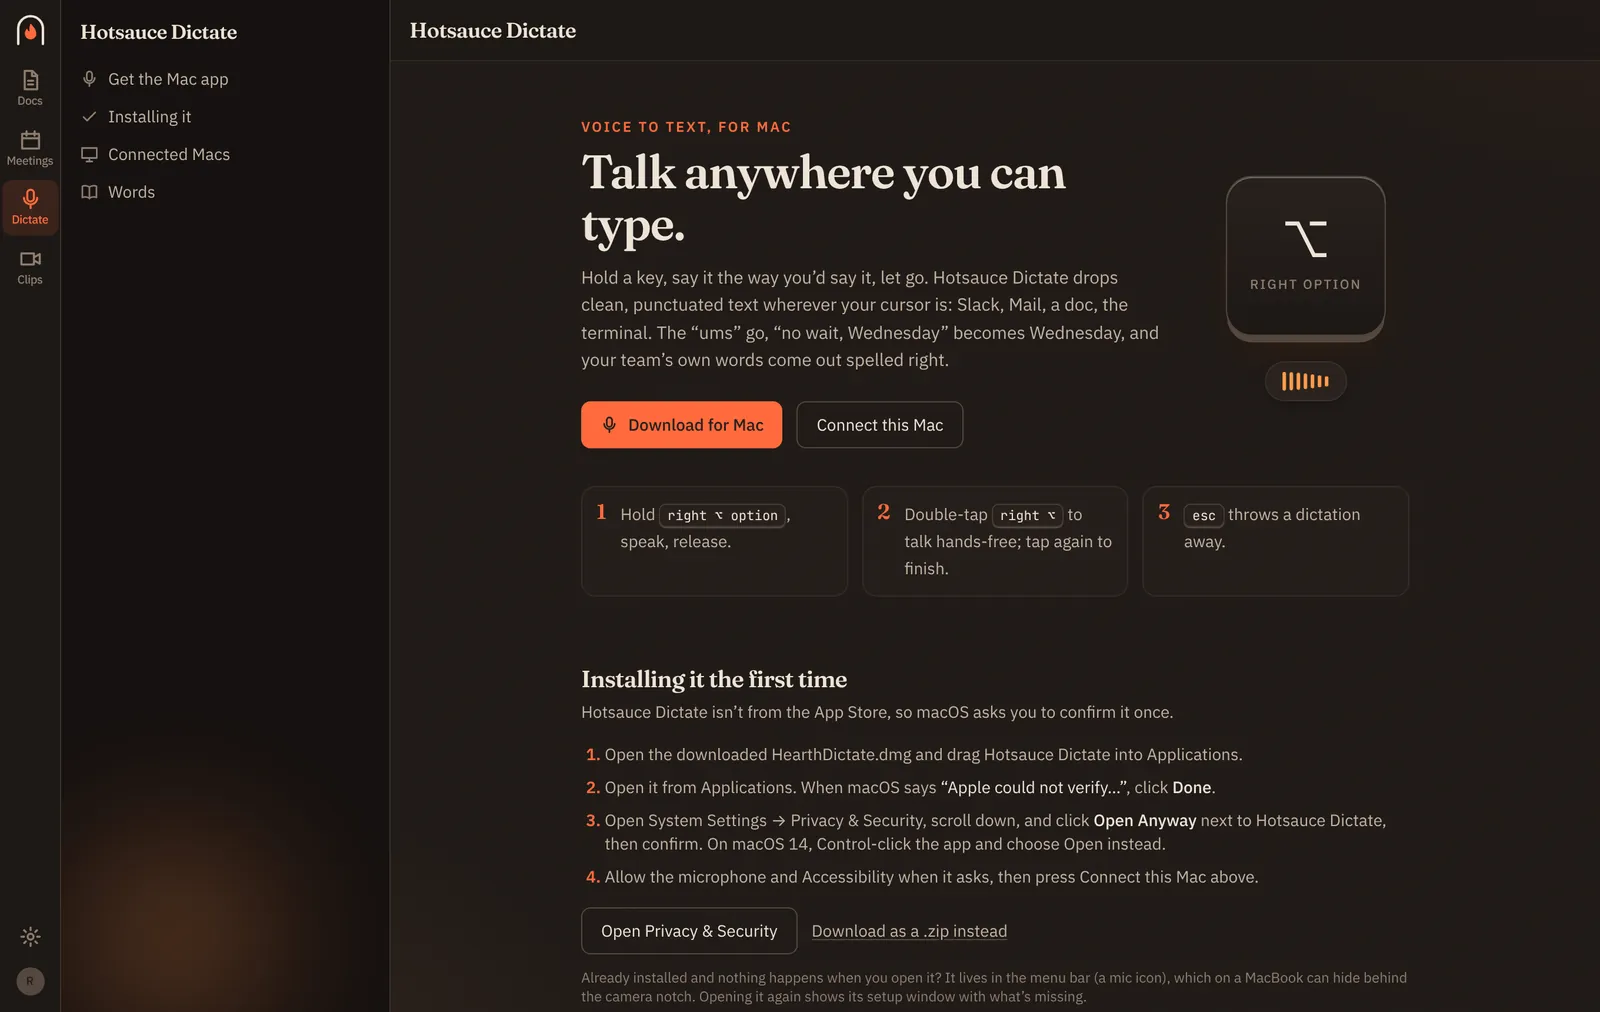
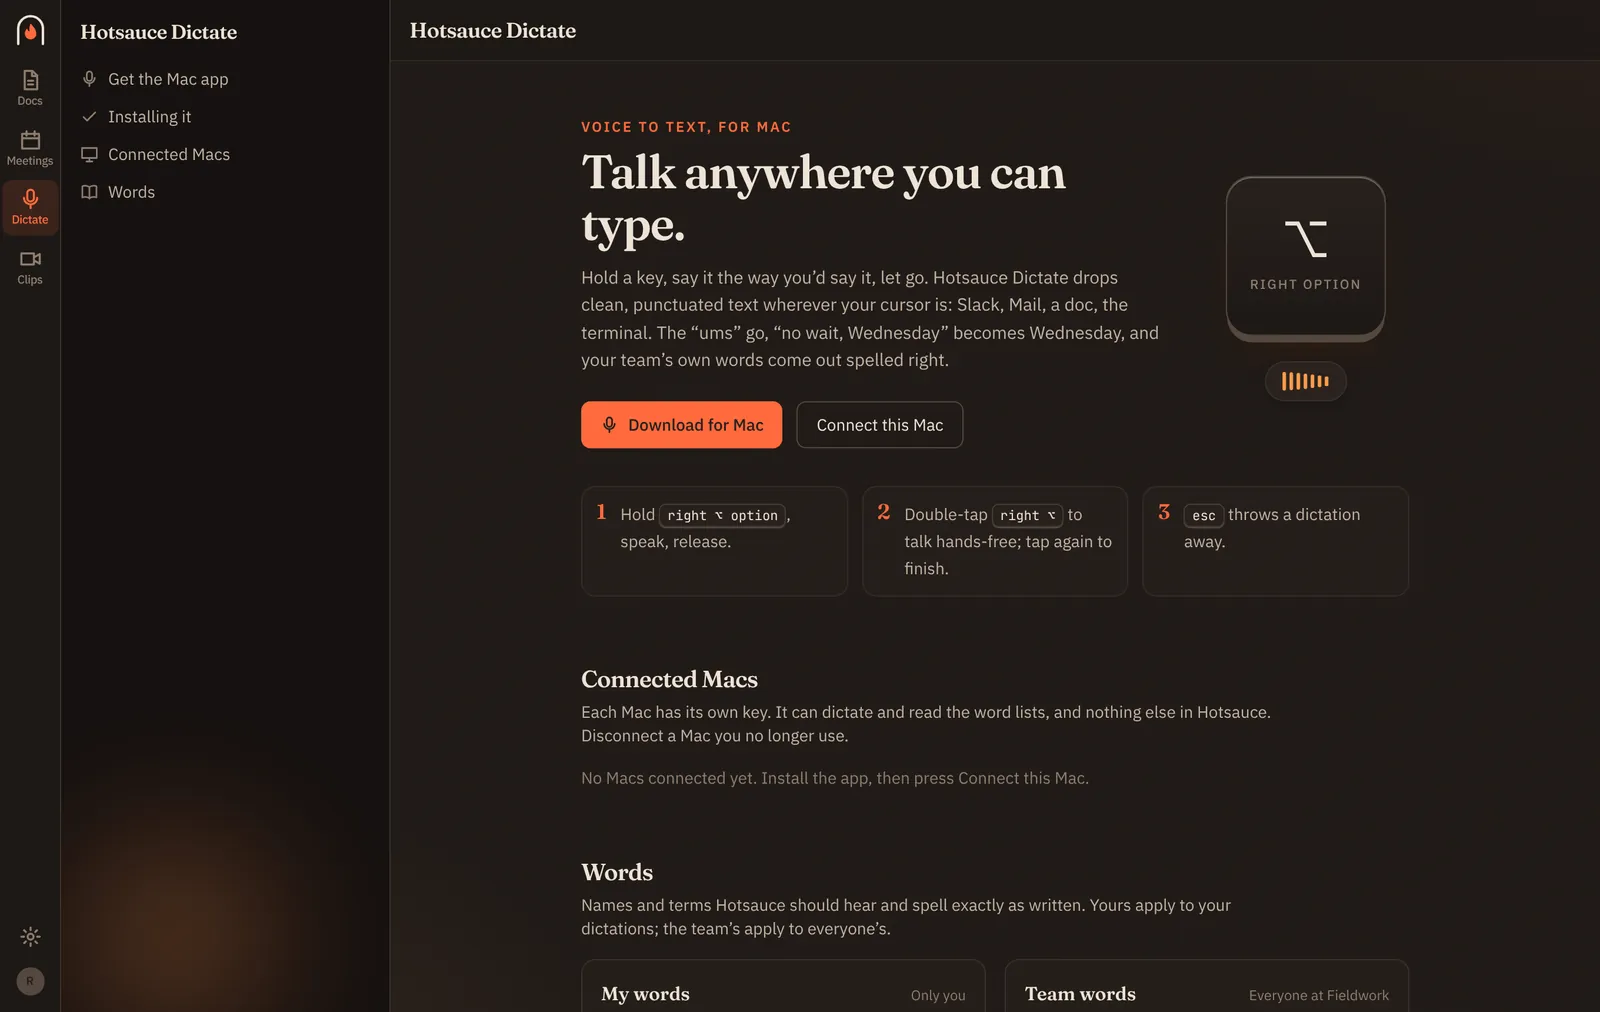
Website: fixes from review
Copy matches what the public repo does today: Fly needs flyctl and pnpm,
Docker needs only Docker, Clips needs an R2 bucket, the Mac app is built from
source, git clone/push needs GitHub storage, which key turns on what.
New screenshots without the old download name. Drag the brand slider
anywhere (iOS), Ctrl+C fallback off-Mac, contrast on the price card,
Self-host link on phones. Worker: www goes to https, HSTS, frame-deny,
image caching kept on 304.

Claude-Session: https://claude.ai/code/session_01BSKraTNMsfF4Fxt6tYWBig

Changed region(s): [[0.3438, 0.6433, 0.875, 1.0]]

diff --git a/site/public/index.html b/site/public/index.html
@@ -111,6 +111,8 @@ h2{font:600 clamp(32px,4.6vw,48px)/1.08 var(--serif);margin:0 0 14px;letter-spac
 .app li{display:flex;gap:9px;align-items:baseline}
 .app li::before{content:"";width:6px;height:6px;border-radius:50%;background:var(--ember);flex:none;transform:translateY(-2px)}
 .extras{display:grid;gap:16px;grid-template-columns:repeat(3,1fr);margin-top:16px}
+.app .note{margin:14px 0 0;font-size:14px}
+:not(pre)>code{font:.88em var(--mono);background:var(--paper-2);border:1px solid var(--line);padding:1px 6px;border-radius:6px}
 .extra{border:1px dashed var(--line);border-radius:var(--radius);padding:20px 22px}
 .extra h4{margin:0 0 4px;font-size:16px}
 .extra p{margin:0;color:var(--muted);font-size:15px}
@@ -151,7 +153,7 @@ h2{font:600 clamp(32px,4.6vw,48px)/1.08 var(--serif);margin:0 0 14px;letter-spac
 .price h3{margin:0;font-size:15px;color:var(--muted);font-weight:500}
 .price p{margin:0;color:var(--muted);font-size:15.5px}
 .price.hot{background:var(--ember);border-color:var(--ember);color:var(--ember-ink)}
-.price.hot h3,.price.hot p,.price.hot small{color:inherit;opacity:.88}
+.price.hot h3,.price.hot p,.price.hot small{color:inherit}
 
 /* install */
 .install{background:var(--card);border:1px solid var(--line);border-radius:22px;padding:clamp(22px,4vw,44px);display:grid;grid-template-columns:minmax(0,5fr) minmax(0,6fr);gap:44px}
@@ -199,7 +201,9 @@ footer.foot .brand svg{width:24px;height:24px}
   .apps{grid-template-columns:1fr}
 }
 @media (max-width:640px){
-  nav.links a:not(.gh){display:none}
+  nav.links a:not(.gh):not(.m){display:none}
+  nav.links{gap:14px}
+  .caption{min-height:5em}
   .hero{padding-top:28px}
   section{padding-top:72px}
   .chrome span{font-size:11.5px}
@@ -224,7 +228,7 @@ footer.foot .brand svg{width:24px;height:24px}
     <a href="#apps">Apps</a>
     <a href="#brand">Your brand</a>
     <a href="#cost">Cost</a>
-    <a href="#run">Self-host</a>
+    <a class="m" href="#run">Self-host</a>
     <a href="#faq">FAQ</a>
     <a class="gh" href="https://github.com/hotsauce-suite/hotsauce"><svg viewBox="0 0 16 16" fill="currentColor" aria-hidden="true"><path d="M8 0C3.58 0 0 3.58 0 8c0 3.54 2.29 6.53 5.47 7.59.4.07.55-.17.55-.38 0-.19-.01-.82-.01-1.49-2.01.37-2.53-.49-2.69-.94-.09-.23-.48-.94-.82-1.13-.28-.15-.68-.52-.01-.53.63-.01 1.08.58 1.23.82.72 1.21 1.87.87 2.33.66.07-.52.28-.87.51-1.07-1.78-.2-3.64-.89-3.64-3.95 0-.87.31-1.59.82-2.15-.08-.2-.36-1.02.08-2.12 0 0 .67-.21 2.2.82.64-.18 1.32-.27 2-.27.68 0 1.36.09 2 .27 1.53-1.04 2.2-.82 2.2-.82.44 1.1.16 1.92.08 2.12.51.56.82 1.27.82 2.15 0 3.07-1.87 3.75-3.65 3.95.29.25.54.73.54 1.48 0 1.07-.01 1.93-.01 2.2 0 .21.15.46.55.38A8.013 8.013 0 0 0 16 8c0-4.42-3.58-8-8-8z"/></svg>GitHub</a>
   </nav>
@@ -236,7 +240,7 @@ footer.foot .brand svg{width:24px;height:24px}
   <h1>The open <em>sauce</em> office suite.</h1>
   <p class="lede">Docs, AI meeting notes, Mac dictation and screen recordings for your team. It runs on one small server you own, and every doc and note is a Markdown file in git.</p>
   <div class="ctas">
-    <a class="btn primary" href="#run">Set it up in 10 minutes</a>
+    <a class="btn primary" href="#run">Set it up for your team</a>
     <a class="btn" href="https://github.com/hotsauce-suite/hotsauce">View the code</a>
   </div>
   <p class="fine">Free forever. About $6 a month to host. Bring your own AI keys.</p>
@@ -263,7 +267,7 @@ footer.foot .brand svg{width:24px;height:24px}
 <section id="apps">
   <p class="kicker">What's in the box</p>
   <h2>Four apps your team uses every day.</h2>
-  <p class="sub">One sign-in, one search across everything, one brand. Each app does the job well enough that you can cancel the subscription it replaces.</p>
+  <p class="sub">One sign-in, one search across docs and meetings, one brand. Each app does the job well enough that you can cancel the subscription it replaces.</p>
   <div class="apps">
     <article class="app">
       <header><div class="ico"><svg aria-hidden="true" viewBox="0 0 24 24" fill="none" stroke="currentColor" stroke-width="2" stroke-linecap="round" stroke-linejoin="round"><path d="M14 3H6a2 2 0 0 0-2 2v14a2 2 0 0 0 2 2h12a2 2 0 0 0 2-2V9z"/><path d="M14 3v6h6M8 13h8M8 17h5"/></svg></div><h3>Docs</h3><span class="instead">instead of a wiki or<br>shared drive</span></header>
@@ -278,12 +282,13 @@ footer.foot .brand svg{width:24px;height:24px}
     <article class="app">
       <header><div class="ico"><svg aria-hidden="true" viewBox="0 0 24 24" fill="none" stroke="currentColor" stroke-width="2" stroke-linecap="round" stroke-linejoin="round"><rect x="9" y="3" width="6" height="11" rx="3"/><path d="M5 11a7 7 0 0 0 14 0M12 18v3"/></svg></div><h3>Dictate</h3><span class="instead">instead of a paid<br>dictation app</span></header>
       <p>Hold a key on your Mac, talk, let go. Clean, punctuated text lands wherever your cursor is.</p>
-      <ul><li>Works in any app: Slack, Mail, docs, the terminal</li><li>Drops the "ums" and fixes "no wait, Wednesday"</li><li>A shared team word list keeps names spelled right</li><li>Native Mac app, downloadable from your own server</li></ul>
+      <ul><li>Works in any app: Slack, Mail, docs, the terminal</li><li>Drops the "ums" and fixes "no wait, Wednesday"</li><li>A shared team word list keeps names spelled right</li><li>A native Mac app, built from the source in the repo</li></ul>
     </article>
     <article class="app">
       <header><div class="ico"><svg aria-hidden="true" viewBox="0 0 24 24" fill="none" stroke="currentColor" stroke-width="2" stroke-linecap="round" stroke-linejoin="round"><rect x="3" y="4" width="18" height="13" rx="2"/><circle cx="17" cy="14" r="3"/><path d="M8 21h8"/></svg></div><h3>Clips</h3><span class="instead">instead of a screen<br>recording service</span></header>
       <p>Record your screen with a camera bubble and share a link instead of booking a meeting.</p>
-      <ul><li>Screen, window or tab, with your camera in the corner</li><li>Automatic transcript for every clip</li><li>Playback speed control for viewers</li><li>A shared library for the whole team</li></ul>
+      <ul><li>Your whole screen with a camera bubble, or just a window or tab</li><li>Automatic transcript for every clip</li><li>Playback speed control for viewers</li><li>A shared library for the whole team</li></ul>
+      <p class="note">Videos are kept in your own Cloudflare R2 bucket, which you add in the setup wizard.</p>
     </article>
   </div>
   <div class="extras">
@@ -312,7 +317,7 @@ footer.foot .brand svg{width:24px;height:24px}
         <picture class="after-wrap"><source media="(prefers-color-scheme: dark)" srcset="/img/branded-docs-dark.webp"><img class="after" src="/img/branded-docs-light.webp" width="1600" height="1012" alt="" loading="lazy"></picture>
         <span class="tag l">Hotsauce</span><span class="tag r">Your brand</span>
         <span class="bar"></span>
-        <input type="range" min="0" max="100" value="50" aria-label="Drag to compare the default look with a custom brand">
+        <input type="range" min="0" max="100" value="50" aria-label="Compare the default look with a custom brand" aria-valuetext="Half default, half custom brand">
         <span class="knob" aria-hidden="true"><svg aria-hidden="true" viewBox="0 0 24 24" fill="none" stroke="currentColor" stroke-width="2.2" stroke-linecap="round" stroke-linejoin="round"><path d="m9 6-6 6 6 6M15 6l6 6-6 6"/></svg></span>
       </div>
       <p class="caption" style="text-align:center;min-height:0">Same app, same doc. Drag to see a team's own logo, colors and fonts.</p>
@@ -327,9 +332,9 @@ footer.foot .brand svg{width:24px;height:24px}
       <h2>Your files are just files.</h2>
       <p class="sub">Most office software keeps your work in a database only it can read. Hotsauce keeps it in a git repository, as Markdown anyone can open.</p>
       <div class="points">
-        <div><h3>Leave whenever you like</h3><p>Your export is <code>git clone</code>. Every doc, meeting note and transcript comes with its full history.</p></div>
-        <div><h3>Use the tools you already have</h3><p>Clone the repository and open it in Obsidian, VS Code or any editor. Changes you push show up in Hotsauce.</p></div>
-        <div><h3>Keep it where you choose</h3><p>On the server's own disk, or pushed to your GitHub organization. The database is only an index you can delete and rebuild.</p></div>
+        <div><h3>Leave whenever you like</h3><p>Every doc, meeting note and transcript is a Markdown file with its full git history. Keep them in your GitHub organization and your export is <code>git clone</code>.</p></div>
+        <div><h3>Use the tools you already have</h3><p>With GitHub storage, open the repository in Obsidian, VS Code or any editor. Changes you push show up in Hotsauce.</p></div>
+        <div><h3>Keep it where you choose</h3><p>On the server's own disk, or in your GitHub organization. For docs and meetings, the database is only an index you can delete and rebuild.</p></div>
       </div>
     </div>
     <div class="code" role="img" aria-label="A meeting note as a Markdown file with YAML frontmatter: title, date, attendees and template, followed by the summary.">
@@ -342,6 +347,7 @@ footer.foot .brand svg{width:24px;height:24px}
 <span class="k">attendees</span>:
   - <span class="s">Rosa &lt;rosa@fieldwork.example&gt;</span>
   - <span class="s">Sam Okafor &lt;sam@northside.example&gt;</span>
+  - <span class="s">Priya Nair &lt;priya@northside.example&gt;</span>
 <span class="k">template</span>: customer-call
 <span class="k">transcript</span>: <span class="s">2026-11-10-northside-water-kickoff.transcript.md</span>
 <span class="d">---</span>
@@ -378,23 +384,24 @@ before the spring sampling season.
   <div class="install">
     <div>
       <p class="kicker">Self-host</p>
-      <h2>Running in about ten minutes.</h2>
+      <h2>Running this afternoon.</h2>
       <p class="sub" style="font-size:17px">You run three commands. A setup wizard in your browser does the rest, and nobody edits a config file.</p>
       <p style="margin:0 0 8px;font-weight:600;font-size:15px">The wizard covers</p>
       <ul class="wizard"><li>Your organization</li><li>Brand</li><li>Google sign-in</li><li>AI keys</li><li>Files and audio</li><li>Review and launch</li></ul>
-      <div class="needs"><b>You'll need</b> a free Fly.io account (or any Docker host), a free Clerk account for Google sign-in, and optionally Anthropic and Deepgram keys for the AI features. Docs works fully without them.</div>
+      <div class="needs"><b>You'll need</b> a Fly.io account (or any server with Docker), a free Clerk account for Google sign-in, and optionally Anthropic and Deepgram keys for the AI features and a Cloudflare R2 bucket for Clips. Docs works fully without them.</div>
     </div>
     <ol class="steps">
-      <li><div><h3>Get the code</h3><p>Needs Node 22, git and pnpm (<code>corepack enable</code>).</p>
+      <li><div><h3>Get the code</h3>
         <div class="cmd"><pre>git clone https://github.com/hotsauce-suite/hotsauce
-cd hotsauce &amp;&amp; pnpm install</pre><button class="copy" type="button">Copy</button></div></div></li>
+cd hotsauce</pre><button class="copy" type="button" aria-live="polite">Copy</button></div></div></li>
       <li><div><h3>Launch your server</h3>
         <div class="seg" role="tablist" aria-label="Where to host">
           <button type="button" role="tab" aria-selected="true" data-host="fly" id="h-fly" aria-controls="host-cmd">Fly.io</button>
           <button type="button" role="tab" aria-selected="false" tabindex="-1" data-host="docker" id="h-docker" aria-controls="host-cmd">Docker</button>
         </div>
-        <p id="host-note">Creates the app and its disk, generates every secret, deploys, and prints your setup link.</p>
-        <div class="cmd" id="host-cmd" role="tabpanel" aria-labelledby="h-fly"><pre>scripts/deploy-fly.sh acme-office</pre><button class="copy" type="button">Copy</button></div></div></li>
+        <p id="host-note">Needs Node 22, pnpm (<code>corepack enable</code>) and flyctl, signed in with <code>fly auth login</code>. The script creates the app and its disk, generates the server's keys, deploys, and prints your setup link.</p>
+        <div class="cmd" id="host-cmd" role="tabpanel" aria-labelledby="h-fly"><pre>pnpm install
+scripts/deploy-fly.sh acme-office</pre><button class="copy" type="button" aria-live="polite">Copy</button></div></div></li>
       <li><div><h3>Open the setup link</h3><p>Name your workspace, add your brand, connect sign-in and keys, and launch. Then send your team the link. Full guide in <a href="https://github.com/hotsauce-suite/hotsauce/blob/main/docs/self-host.md">docs/self-host.md</a>.</p></div></li>
     </ol>
   </div>
@@ -404,13 +411,13 @@ cd hotsauce &amp;&amp; pnpm install</pre><button class="copy" type="button">Copy
   <div class="center"><p class="kicker">Questions</p><h2>Good to know.</h2></div>
   <div class="faq">
     <details><summary>Who is Hotsauce for?</summary><p>Teams of roughly 5 to 50 people who want their documents and meeting notes on infrastructure they control, without paying per seat. You need one person who is comfortable running three commands. After that, everything is set up and managed in the browser.</p></details>
-    <details><summary>Is it really free?</summary><p>Yes. The code is free under AGPL-3.0 and every feature is included. You pay your own hosting (about $6 a month on Fly.io) and, if you turn on the AI features, your own Anthropic and Deepgram usage.</p></details>
+    <details><summary>Is it really free?</summary><p>Yes. The code is free under AGPL-3.0 and every feature is included. You pay your own hosting (about $6 a month on Fly.io) and, if you turn them on, your own Anthropic, Deepgram and Cloudflare R2 usage.</p></details>
     <details><summary>What does AGPL-3.0 mean for my company?</summary><p>You can run Hotsauce for your team, change it, and keep using it, with no fees. If you offer a modified version to people outside your organization over a network, you have to share your changes under the same license. Using it internally doesn't trigger that.</p></details>
-    <details><summary>Do I need the AI keys?</summary><p>No. Docs, search and Clips recording work without them. Meeting notes, transcripts, Dictate and Ask need an Anthropic key and a Deepgram key, and the app tells you which features turn on when you add them. You can add keys at any time in Settings.</p></details>
+    <details><summary>Do I need the AI keys?</summary><p>No. Docs and search work fully without them. A Deepgram key turns on meeting transcripts and Dictate. An Anthropic key turns on AI meeting notes, Ask, and Dictate's clean-up of filler words. The app shows what each key turns on, and admins can add keys at any time in Settings.</p></details>
     <details><summary>Where does my data go?</summary><p>Your files live on your server, or in your GitHub organization if you choose that. Audio is sent to Deepgram for transcription and text to Anthropic for notes, using your own accounts. Kept meeting audio can go to your own Cloudflare R2 bucket, or not be kept at all.</p></details>
     <details><summary>How do people sign in?</summary><p>With Google, through a free Clerk application that the wizard walks you through. The server only lets in email addresses from the domains you choose.</p></details>
     <details><summary>Does a bot join my meetings?</summary><p>No. Meetings records from your own browser tab or the Chrome extension for Google Meet, so there's no extra attendee in the call.</p></details>
-    <details><summary>How do I update it?</summary><p>Pull the latest code and run the same deploy command again. It's safe to rerun, and your files and settings stay on the server's disk.</p></details>
+    <details><summary>How do I update it?</summary><p>Pull the latest code and run the same deploy command again, with the same <code>PUBLIC_URL</code> if you set one. It's safe to rerun, and your files and settings stay on the server's disk.</p></details>
   </div>
 </section>
 
@@ -435,7 +442,7 @@ cd hotsauce &amp;&amp; pnpm install</pre><button class="copy" type="button">Copy
 const TOUR = {
   docs: { url: 'office.fieldwork.example/docs/team/Planning/2027 roadmap', alt: 'Hotsauce Docs showing a team roadmap document, with a folder tree of team docs on the left.', cap: "A team roadmap in Docs. It's a Markdown file in your git repository, with full history, search and links that survive renames." },
   meeting: { url: 'office.fieldwork.example/meetings/northside-water-kickoff', alt: 'Hotsauce Meetings showing AI-written notes for a customer call, with the live transcript on the right.', cap: 'Notes from a customer call, written from your own jottings and the transcript. Ask anything about this meeting, or across all of them.' },
-  dictate: { url: 'office.fieldwork.example/dictate', alt: 'The Hotsauce Dictate page, explaining how to hold the right Option key to dictate on a Mac.', cap: 'Dictate for Mac: hold right Option, speak, let go. Your team downloads it from your own server.' },
+  dictate: { url: 'office.fieldwork.example/dictate', alt: 'The Hotsauce Dictate page, explaining how to hold the right Option key to dictate on a Mac.', cap: 'Dictate for Mac: hold right Option, speak, let go. Clean text lands wherever your cursor is.' },
 }
 const tabs = [...document.querySelectorAll('.tabs [role=tab]')]
 function selectTab(btn, focus) {
@@ -477,14 +484,37 @@ addEventListener('load', () => {
 // Brand compare slider
 const cmp = document.getElementById('compare')
 const range = cmp.querySelector('input')
-const setPos = () => cmp.style.setProperty('--pos', `${range.value}%`)
+const setPos = () => {
+  cmp.style.setProperty('--pos', `${range.value}%`)
+  range.setAttribute('aria-valuetext', `${100 - Number(range.value)}% custom brand`)
+}
 range.addEventListener('input', setPos)
 setPos()
+// Drag anywhere on the image (iOS only moves a range from its own thumb)
+let dragging = false
+const fromPointer = (e) => {
+  const r = cmp.getBoundingClientRect()
+  range.value = String(Math.round(Math.min(100, Math.max(0, ((e.clientX - r.left) / r.width) * 100))))
+  setPos()
+}
+cmp.addEventListener('pointerdown', (e) => {
+  dragging = true
+  cmp.setPointerCapture(e.pointerId)
+  fromPointer(e)
+})
+cmp.addEventListener('pointermove', (e) => {
+  if (dragging) fromPointer(e)
+})
+const stop = () => {
+  dragging = false
+}
+cmp.addEventListener('pointerup', stop)
+cmp.addEventListener('pointercancel', stop)
 
 // Hosting choice
 const HOSTS = {
-  fly: { cmd: 'scripts/deploy-fly.sh acme-office', note: 'Creates the app and its disk, generates every secret, deploys, and prints your setup link.' },
-  docker: { cmd: 'cd deploy\nPUBLIC_URL=https://office.acme.com docker compose up -d --build\ndocker compose logs hotsauce | grep setup', note: 'On any server with Docker, behind a proxy that handles HTTPS (Caddy works well). The last command shows your setup link.' },
+  fly: { cmd: 'pnpm install\nscripts/deploy-fly.sh acme-office', note: 'Needs Node 22, pnpm (<code>corepack enable</code>) and flyctl, signed in with <code>fly auth login</code>. The script creates the app and its disk, generates the server\'s keys, deploys, and prints your setup link.' },
+  docker: { cmd: 'cd deploy\nPUBLIC_URL=https://office.acme.com docker compose up -d --build\ndocker compose logs hotsauce | grep setup', note: 'Needs only Docker, on a server behind a proxy that handles HTTPS (Caddy works well). Use your own address for <code>PUBLIC_URL</code>. The last command shows your setup link.' },
 }
 const hostTabs = [...document.querySelectorAll('.seg [role=tab]')]
 function selectHost(btn, focus) {
@@ -497,7 +527,7 @@ function selectHost(btn, focus) {
   const panel = document.getElementById('host-cmd')
   panel.setAttribute('aria-labelledby', btn.id)
   panel.querySelector('pre').textContent = h.cmd
-  document.getElementById('host-note').textContent = h.note
+  document.getElementById('host-note').innerHTML = h.note
   if (focus) btn.focus()
 }
 for (const t of hostTabs) {
@@ -517,7 +547,7 @@ for (const box of document.querySelectorAll('.cmd')) {
       const r = document.createRange()
       r.selectNodeContents(box.querySelector('pre'))
       const s = getSelection(); s.removeAllRanges(); s.addRange(r)
-      btn.textContent = 'Press ⌘C'
+      btn.textContent = /Mac|iPhone|iPad/.test(navigator.platform) ? 'Press ⌘C' : 'Press Ctrl+C'
     }
     setTimeout(() => { btn.textContent = 'Copy' }, 1600)
   })

diff --git a/site/worker.js b/site/worker.js
@@ -1,17 +1,21 @@
-// Sends www.hotsauce.work to hotsauce.work and serves the static pages.
+// Sends www.hotsauce.work to https://hotsauce.work and serves the static pages with security headers.
 export default {
   async fetch(request, env) {
     const url = new URL(request.url)
     if (url.hostname === 'www.hotsauce.work') {
       url.hostname = 'hotsauce.work'
+      url.protocol = 'https:'
       return Response.redirect(url.toString(), 301)
     }
     const res = await env.ASSETS.fetch(request)
     const headers = new Headers(res.headers)
     headers.set('x-content-type-options', 'nosniff')
     headers.set('referrer-policy', 'strict-origin-when-cross-origin')
-    if (res.ok && url.pathname.startsWith('/img/'))
+    headers.set('x-frame-options', 'DENY')
+    if (url.protocol === 'https:') headers.set('strict-transport-security', 'max-age=31536000')
+    if ((res.ok || res.status === 304) && url.pathname.startsWith('/img/')) {
       headers.set('cache-control', 'public, max-age=86400')
+    }
     return new Response(res.body, { status: res.status, headers })
   },
 }
